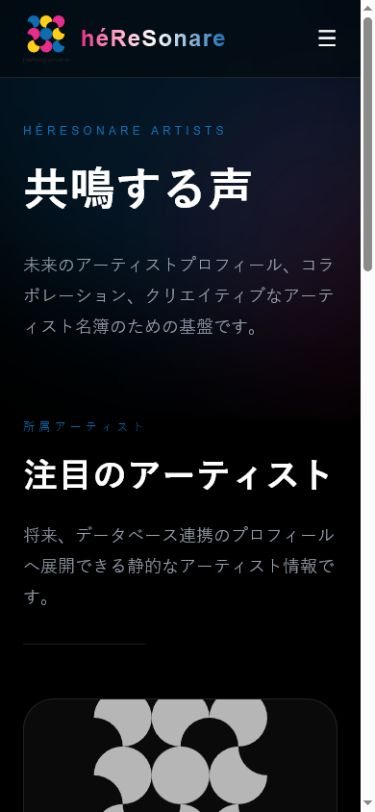
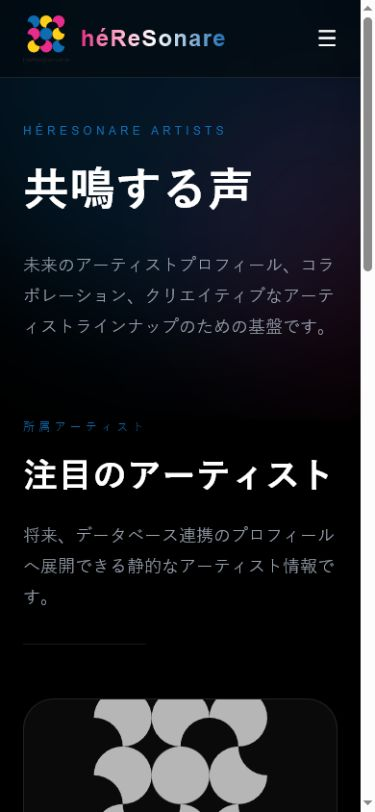
Harden Japanese and Chinese editorial wording

Changed region(s): [[0.2053, 0.3695, 0.792, 0.431], [0.8213, 0.3695, 0.8507, 0.431]]

diff --git a/src/data/pageContent.ts b/src/data/pageContent.ts
@@ -558,7 +558,7 @@ const localizedPages = {
         tag: "h\u00e9ReSonare Artists",
         title: "共鳴する声",
         description:
-          "未来のアーティストプロフィール、コラボレーション、クリエイティブなアーティスト名簿のための基盤です。",
+          "未来のアーティストプロフィール、コラボレーション、クリエイティブなアーティストラインナップのための基盤です。",
       },
       sections: [
         {
@@ -958,7 +958,7 @@ const localizedPages = {
               useCases: [
                 "沉浸式聆听",
                 "互动装置",
-                "产品化声音识别",
+                "产品化的声音品牌标识",
               ],
               specs: [
                 { label: "形式", value: "模块化音频系统" },
@@ -993,7 +993,7 @@ const localizedPages = {
               type: "体验系统",
               subtitle: "Live Experience产品",
               status: "研究阶段",
-              description: "连接演出、场地环境与响应式声音时刻的Live Experience产品线。",
+              description: "连接演出、场地环境与会随互动变化的声音瞬间的Live Experience产品线。",
               features: [
                 "场地适配体验套件",
                 "现场声音互动层",

diff --git a/docs/jp-cn-content-repair-audit.md b/docs/jp-cn-content-repair-audit.md
@@ -58,7 +58,7 @@ models:
 | In development | 開発中 | 开发中 |
 | Coming soon | 近日公開 | 即将公开 |
 | Research | 研究段階 | 研究阶段 |
-| Features | 特長 | 特点 |
+| Features | 特徴 | 特点 |
 | Use cases | 活用例 | 应用场景 |
 | Specifications | 仕様 | 规格 |
 | Format | 形式 | 形式 |
@@ -115,8 +115,7 @@ Screenshot evidence is stored in `docs/screenshots/jp-cn-content-repair/`:
 
 The translations are faithful to the placeholder English source and introduce
 no new claims. Product-owner review is recommended for the product-language
-choices `適応型レゾナンスレイヤー` / `自适应共鸣层`,
-`プロダクト化されたサウンドアイデンティティ` / `产品化声音识别`, and
+choices `適応型レゾナンスレイヤー` / `自适应共鸣层` and
 `会場とブランドのアクティベーション` / `场地与品牌活动`, because final
 brand terminology may prefer different wording when the underlying products are
 defined. The placeholder labels `基盤アイテム` and `基础商品` should also be